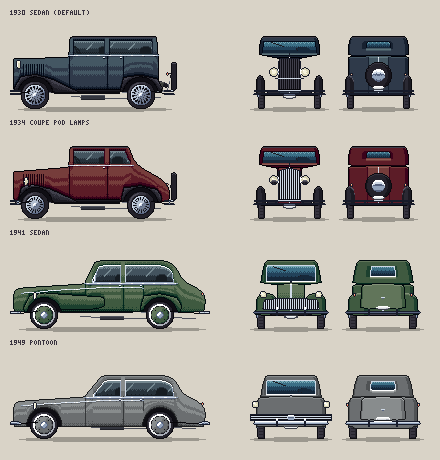
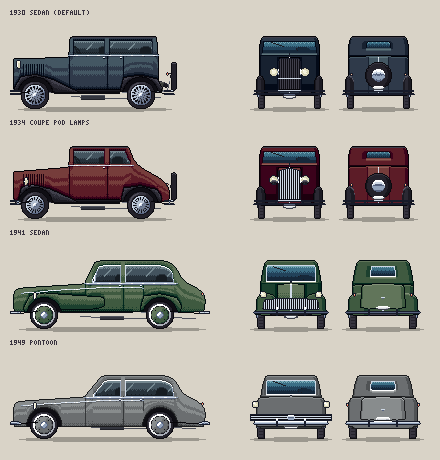
Front/rear views: cowl and door sides run full width to the sill; plan section 12 (designer rebuilt on measured renders)
Claude-Session: https://claude.ai/code/session_01BMyqTudGWpuTphuwn8oTvi

diff --git a/gearhouse/docs/MASTER_GAME_PLAN.md b/gearhouse/docs/MASTER_GAME_PLAN.md
@@ -160,3 +160,22 @@
 | C | 엔진 분해도(부품 단위), 크랭크·피스톤·캠 사진 |
 | F | 1930~40년대 **신차 발표회 사진**(호텔 연회장, 박람회 부스), 당시 자동차 신문·잡지 지면 |
 | E | 딜러 야적장, 공장 전경 추가(받은 자료로 상당 부분 가능) |
+
+## 12. A단계 재정비 — 실측 렌더를 설계기의 바탕으로
+
+**지적:**
+- v3 설계기가 기존 실측 렌더(측면 14대, 정면·후면 5세트, 군용)를 쓰지 않고 도형부터 새로 그려 품질이 떨어졌다.
+- 정면 앞유리 아래 양옆이 비는 문제(예전 군용차와 같은 문제)가 다시 생겼다.
+
+**바로 고친 것:** 정면·후면에서 차체 옆면(카울·문)이 벨트라인부터 문턱까지 전폭으로 내려가도록 수정했다. 펜더는 그 앞에 그려진다.
+
+**원칙:** 기존 실측 렌더는 삭제하지 않고 설계기의 **바탕 차체**로 쓴다. 새 도형은 실측 자료가 없는 곳에만 쓴다.
+
+| 순서 | 내용 |
+|---|---|
+| 1 | **바탕 차량 선택**: 설계를 시작할 때 시대에 맞는 실측 차체 14대 중 하나를 고른다(연도로 잠금). 측면은 실측 사양 그대로 출발한다 |
+| 2 | **치수 조절 = 구간 변형**: 휠베이스, 앞뒤 오버행, 지붕·벨트·후드 높이, 전폭을 실측 사양의 구간 변형으로 적용한다(캐빈 고정 원칙 유지). 기존 warpSpec을 오버행·후드·벨트까지 확장한다 |
+| 3 | **부품 교체 = 실측 부품 라이브러리**: 그릴, 헤드램프, 범퍼, 테일램프, 휠, 스페어를 실측 차에서 부품 단위로 떼어 라이브러리로 만든다. 다른 실측 차의 부품을 같은 기준점(그릴 중심, 펜더 정점, 범퍼 높이)에 맞춰 바탕 차에 끼운다 |
+| 4 | **정면·후면도 실측 바탕**: 실측 정면·후면이 있는 차(1930 세단, 1934 타운카, 1934 에어플로형, 1937 유선형, 군용)는 그대로 쓰고 같은 치수 변형을 적용한다. 정면·후면이 없는 1940년대 8대는 받은 정면·후면 사진 16장으로 **실측 정면·후면을 새로 제작**한다 |
+| 5 | **v3 매개변수 체계 유지**: 조작 항목, 시대 한계, 대칭 배치, 청사진 스캔은 그대로 두고 그리는 쪽만 실측 바탕으로 바꾼다. 실측 바탕이 없는 조합에만 v3 도형을 쓴다 |
+| 6 | **품질**: 범퍼 단면·브래킷, 램프 버킷·크롬 림, 그릴 바 단면을 실측 부품 기준으로 다듬는다 |
